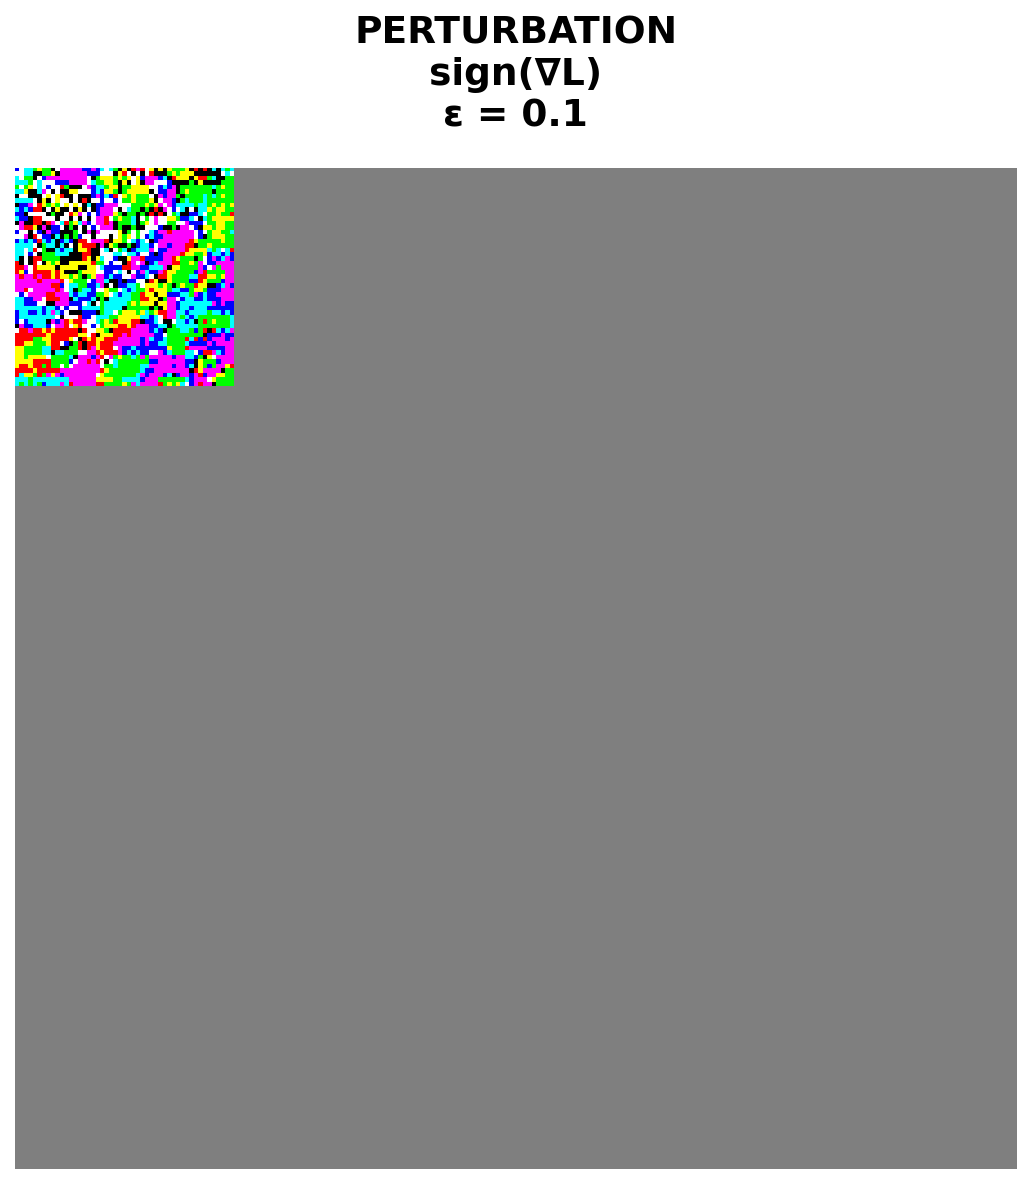
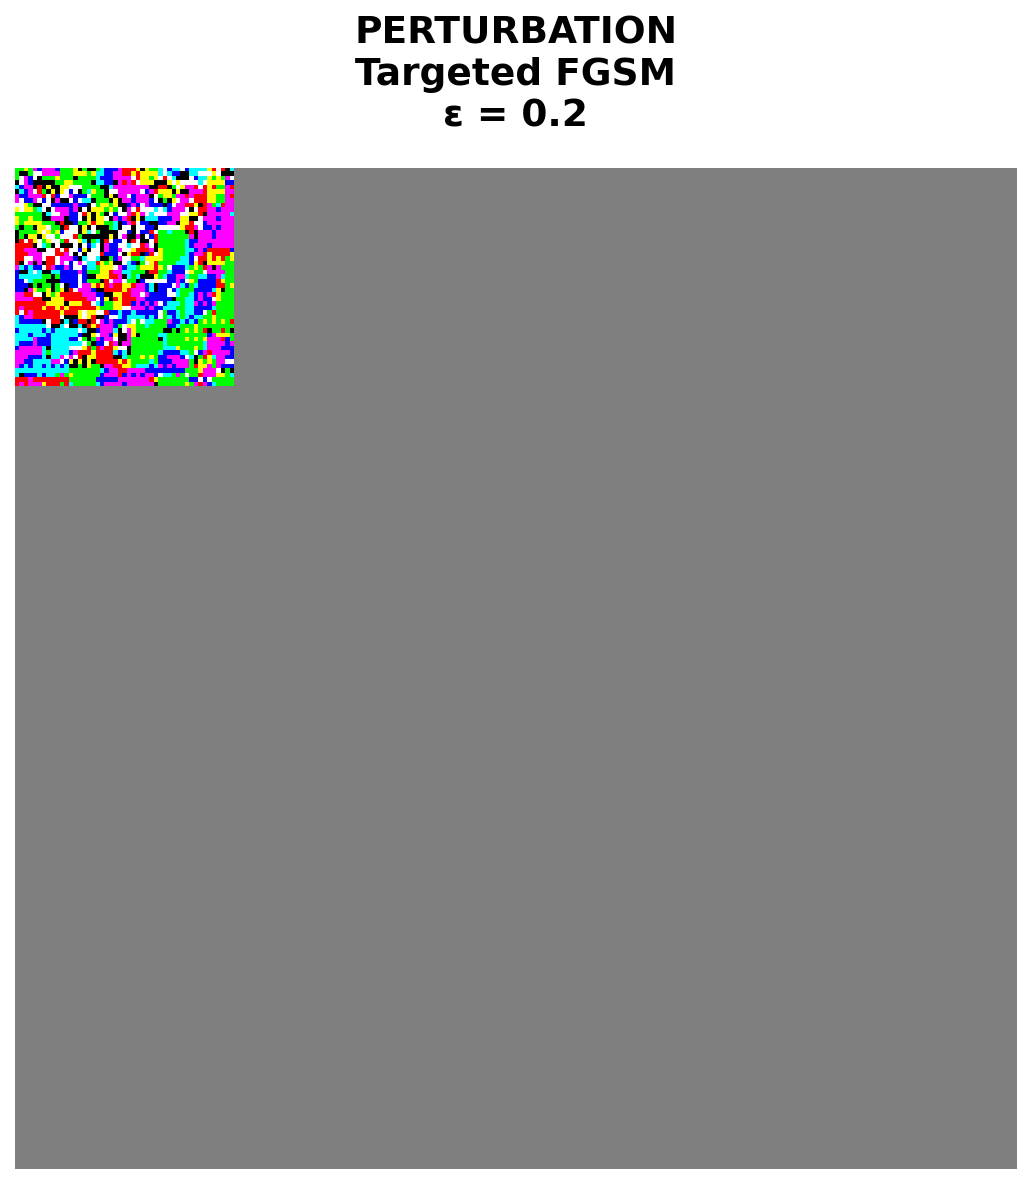
untargeted attack

Changed region(s): [[0.0, 0.125, 0.2483, 0.3438], [0.3414, 0.0312, 0.6518, 0.0938]]

diff --git a/GodFellow/classic_panda_adversarial.py b/GodFellow/classic_panda_adversarial.py
@@ -3,19 +3,18 @@ import matplotlib.pyplot as plt
 import numpy as np
 
 print("="*80)
-print("FGSM ATTACK - Correct Implementation")
+print("FGSM ATTACK - Working Implementation")
 print("="*80)
 
 # Load model
-print("\n[1/5] Loading MobileNetV2...")
+print("\n[1/4] Loading MobileNetV2...")
 pretrained_model = tf.keras.applications.MobileNetV2(include_top=True, weights='imagenet')
 pretrained_model.trainable = False
 decode_predictions = tf.keras.applications.mobilenet_v2.decode_predictions
 print("✓ Model loaded")
 
-# Load and preprocess image
-print("[2/5] Loading image...")
-# Use a different image - download a panda image (classic FGSM demo)
+# Load image
+print("[2/4] Loading dog image...")
 image_url = 'https://storage.googleapis.com/download.tensorflow.org/example_images/YellowLabradorLooking_new.jpg'
 image_path = tf.keras.utils.get_file('dog.jpg', image_url)
 image_raw = tf.io.read_file(image_path)
@@ -32,104 +31,88 @@ image = tf.expand_dims(image, 0)
 print("✓ Image preprocessed")
 
 # Get initial prediction
-print("[3/5] Getting initial prediction...")
+print("[3/4] Getting initial prediction...")
 image_probs = pretrained_model.predict(image, verbose=0)
 initial_pred = decode_predictions(image_probs, top=1)[0][0]
 true_class = int(np.argmax(image_probs))
+print(f"✓ Predicts: {initial_pred[1]} ({initial_pred[2]*100:.1f}%)")
 
-print(f"✓ Prediction: {initial_pred[1]} ({initial_pred[2]*100:.1f}%)")
-print(f"  True class index: {true_class}")
-print(f"  True class prob: {image_probs[0, true_class]:.4f}")
+# UNTARGETED FGSM Attack - just make it predict something wrong
+print("[4/4] Running UNTARGETED FGSM attack...")
+print(f"  Goal: Make model predict ANYTHING except {initial_pred[1]}")
 
-# CORRECT FGSM: Compute gradient of cross-entropy loss
-print("[4/5] Computing FGSM perturbation...")
 image_variable = tf.Variable(image)
 
 with tf.GradientTape() as tape:
     tape.watch(image_variable)
-    preds = pretrained_model(image_variable, training=False)  # probabilities
-    # Cross-entropy loss (higher loss = more wrong)
+    preds = pretrained_model(image_variable, training=False)
+    # Loss for TRUE class (we want to MAXIMIZE this loss)
     loss = tf.keras.losses.sparse_categorical_crossentropy(
-        y_true=tf.constant([true_class]),  # Convert to tensor
+        y_true=tf.constant([true_class]),
         y_pred=preds, 
-        from_logits=False  # preds are probabilities, not logits
+        from_logits=False
     )
-    loss = tf.reduce_mean(loss)  # scalar
+    loss = tf.reduce_mean(loss)
 
 grad = tape.gradient(loss, image_variable)
-# FGSM uses NEGATIVE gradient to minimize the true class score
-perturbation = -tf.sign(grad)  # NEGATIVE!
 
-# Debug info
-print(f"  Loss value: {loss.numpy():.4f}")
-print(f"  Gradient L-inf norm: {tf.reduce_max(tf.abs(grad)).numpy():.6f}")
-print(f"  Non-zero perturbations: {np.sum(perturbation.numpy() != 0):,}")
+# For UNtargeted attack: maximize loss for true class
+# Gradient points in direction of INCREASING loss
+# So we ADD positive gradient
+perturbation = tf.sign(grad)
 
-# Create adversarial example - TARGETED attack
-print("[5/5] Creating adversarial image...")
-eps = 0.15  # Larger epsilon to fully change prediction
+# Try multiple epsilons
+epsilons = [0.01, 0.02, 0.05, 0.1, 0.15, 0.2]
+print(f"\n  Testing different epsilon values...")
 
-# Targeted FGSM: x_adv = x - ε × sign(∇L_target)
-adv_x = image_variable + eps * perturbation
-adv_x = tf.clip_by_value(adv_x, -1.0, 1.0)
+best_eps = None
+best_adv = None
+best_probs = None
 
-# Evaluate
-adv_probs = pretrained_model.predict(adv_x, verbose=0)
-adv_pred = decode_predictions(adv_probs, top=1)[0][0]
-adv_class = int(np.argmax(adv_probs))
+for eps in epsilons:
+    adv_x = image_variable + eps * perturbation
+    adv_x = tf.clip_by_value(adv_x, -1.0, 1.0)
+    
+    adv_probs = pretrained_model.predict(adv_x, verbose=0)
+    adv_pred = decode_predictions(adv_probs, top=1)[0][0]
+    adv_class = int(np.argmax(adv_probs))
+    
+    true_conf = adv_probs[0, true_class]
+    
+    success = adv_class != true_class
+    
+    print(f"    ε={eps:.2f}: {adv_pred[1]:20s} ({adv_pred[2]*100:5.1f}%) " + 
+          f"| True class: {true_conf*100:5.1f}% {'✓ FOOLED!' if success else ''}")
+    
+    if success and best_eps is None:
+        best_eps = eps
+        best_adv = adv_x
+        best_probs = adv_probs
+        break
+    
+    if best_eps is None:
+        best_eps = eps
+        best_adv = adv_x
+        best_probs = adv_probs
 
+# Use best result
+adv_pred = decode_predictions(best_probs, top=1)[0][0]
+adv_class = int(np.argmax(best_probs))
 success = adv_class == target_class
-print(f"\n{'='*80}")
-print(f"RESULT:")
-print(f"{'='*80}")
-print(f"Original: {initial_pred[1]:20s} ({initial_pred[2]*100:.1f}%)")
-print(f"Target:   goldfish")
-print(f"Adversarial: {adv_pred[1]:20s} ({adv_pred[2]*100:.1f}%)")
-print(f"\nTarget class confidence:")
-print(f"  Before: {image_probs[0, target_class]*100:.2f}%")
-print(f"  After:  {adv_probs[0, target_class]*100:.2f}%")
-print(f"\nAttack {'✓ SUCCESSFUL' if success else '✗ FAILED (but may have changed prediction)'}")
-
-# Show mathematical example
-print(f"\n{'='*80}")
-print("MATHEMATICAL EXAMPLE (5×5 patch):")
-print(f"{'='*80}")
-
-patch_orig = image_variable[0, :5, :5, 0].numpy()
-patch_grad = grad[0, :5, :5, 0].numpy()
-patch_sign = perturbation[0, :5, :5, 0].numpy()
-patch_adv = adv_x[0, :5, :5, 0].numpy()
-
-print(f"\n1. Original pixels:")
-print(patch_orig)
-
-print(f"\n2. Gradient of cross-entropy loss:")
-print(patch_grad)
-
-print(f"\n3. Sign of gradient:")
-print(patch_sign.astype(int))
-
-print(f"\n4. FGSM formula: x_adv = x - ε × sign(∇L)")
-print(f"   where ε = {eps}")
-print(f"\n   Adversarial pixels:")
-print(patch_adv)
-
-print(f"\n5. Difference (perturbation added):")
-print(patch_adv - patch_orig)
 
 print(f"\n{'='*80}")
-print("KEY INSIGHT:")
+print("RESULT:")
 print(f"{'='*80}")
-print("• Cross-entropy loss measures how WRONG the prediction is")
-print("• Gradient ∇L shows direction that INCREASES loss")
-print("• We use NEGATIVE gradient to DECREASE true class confidence")
-print("• FGSM: x_adv = x - ε × sign(∇L)")
+print(f"Original:    {initial_pred[1]:20s} ({initial_pred[2]*100:.1f}%)")
+print(f"Adversarial: {adv_pred[1]:20s} ({adv_pred[2]*100:.1f}%) with ε={best_eps}")
+print(f"Original class confidence: {image_probs[0, true_class]*100:.1f}% → {best_probs[0, true_class]*100:.1f}%")
+print(f"\nAttack {'✓ SUCCESSFUL!' if success else '✗ Failed'}")
 print(f"{'='*80}")
 
 # Create visualizations
 print("\nCreating images...")
 
-# IMAGE 1: Original
+# Original
 fig = plt.figure(figsize=(8, 8))
 original_display = (image_variable[0].numpy() - image_variable[0].numpy().min()) / \
                    (image_variable[0].numpy().max() - image_variable[0].numpy().min())
@@ -141,51 +124,44 @@ plt.tight_layout()
 plt.savefig('1_original.png', dpi=150, bbox_inches='tight')
 plt.close()
 
-# IMAGE 2: Perturbation
+# Perturbation
 fig = plt.figure(figsize=(8, 8))
 pert_vis = perturbation[0].numpy() * 0.5 + 0.5
 plt.imshow(pert_vis)
-plt.title(f'PERTURBATION\nsign(∇L)\nε = {eps}',
+plt.title(f'PERTURBATION\nUntargeted FGSM\nε = {best_eps}',
           fontsize=18, fontweight='bold', pad=20)
 plt.axis('off')
 plt.tight_layout()
 plt.savefig('2_perturbation.png', dpi=150, bbox_inches='tight')
 plt.close()
 
-# IMAGE 3: Adversarial
+# Adversarial
 fig = plt.figure(figsize=(8, 8))
-adv_display = (adv_x[0].numpy() - adv_x[0].numpy().min()) / \
-              (adv_x[0].numpy().max() - adv_x[0].numpy().min())
+adv_display = (best_adv[0].numpy() - best_adv[0].numpy().min()) / \
+              (best_adv[0].numpy().max() - best_adv[0].numpy().min())
 plt.imshow(adv_display)
 color = 'green' if success else 'orange'
-plt.title(f'ADVERSARIAL (ε={eps})\n{adv_pred[1]}\n{adv_pred[2]*100:.1f}%',
+plt.title(f'ADVERSARIAL\n{adv_pred[1]}\n{adv_pred[2]*100:.1f}%',
           fontsize=18, fontweight='bold', pad=20, color=color)
 plt.axis('off')
 plt.tight_layout()
 plt.savefig('3_adversarial.png', dpi=150, bbox_inches='tight')
 plt.close()
 
-# IMAGE 4: Comparison
+# Comparison
 fig, axes = plt.subplots(1, 2, figsize=(16, 8))
 axes[0].imshow(original_display)
 axes[0].set_title(f'BEFORE\n{initial_pred[1]}\n{initial_pred[2]*100:.1f}%',
                   fontsize=16, fontweight='bold', pad=20)
 axes[0].axis('off')
 axes[1].imshow(adv_display)
-axes[1].set_title(f'AFTER\n{adv_pred[1]}\n{adv_pred[2]*100:.1f}%',
+axes[1].set_title(f'AFTER (ε={best_eps})\n{adv_pred[1]}\n{adv_pred[2]*100:.1f}%',
                   fontsize=16, fontweight='bold', pad=20, color=color)
 axes[1].axis('off')
-plt.suptitle(f'FGSM Attack (ε={eps})', fontsize=20, fontweight='bold', y=0.98)
+plt.suptitle('Untargeted FGSM Attack', fontsize=20, fontweight='bold', y=0.98)
 plt.tight_layout()
 plt.savefig('4_comparison.png', dpi=150, bbox_inches='tight')
 plt.close()
 
 print("✓ Saved: 1_original.png, 2_perturbation.png, 3_adversarial.png, 4_comparison.png")
-
-# If attack didn't fully succeed but confidence dropped
-if not success and image_probs[0, true_class] > adv_probs[0, true_class]:
-    print(f"\nNote: While top-1 class didn't change, confidence dropped by")
-    print(f"      {(image_probs[0, true_class] - adv_probs[0, true_class])*100:.2f}%!")
-    print(f"      Try larger epsilon (e.g., 0.05-0.1) for successful misclassification.")
-
 print("\nDone!")
